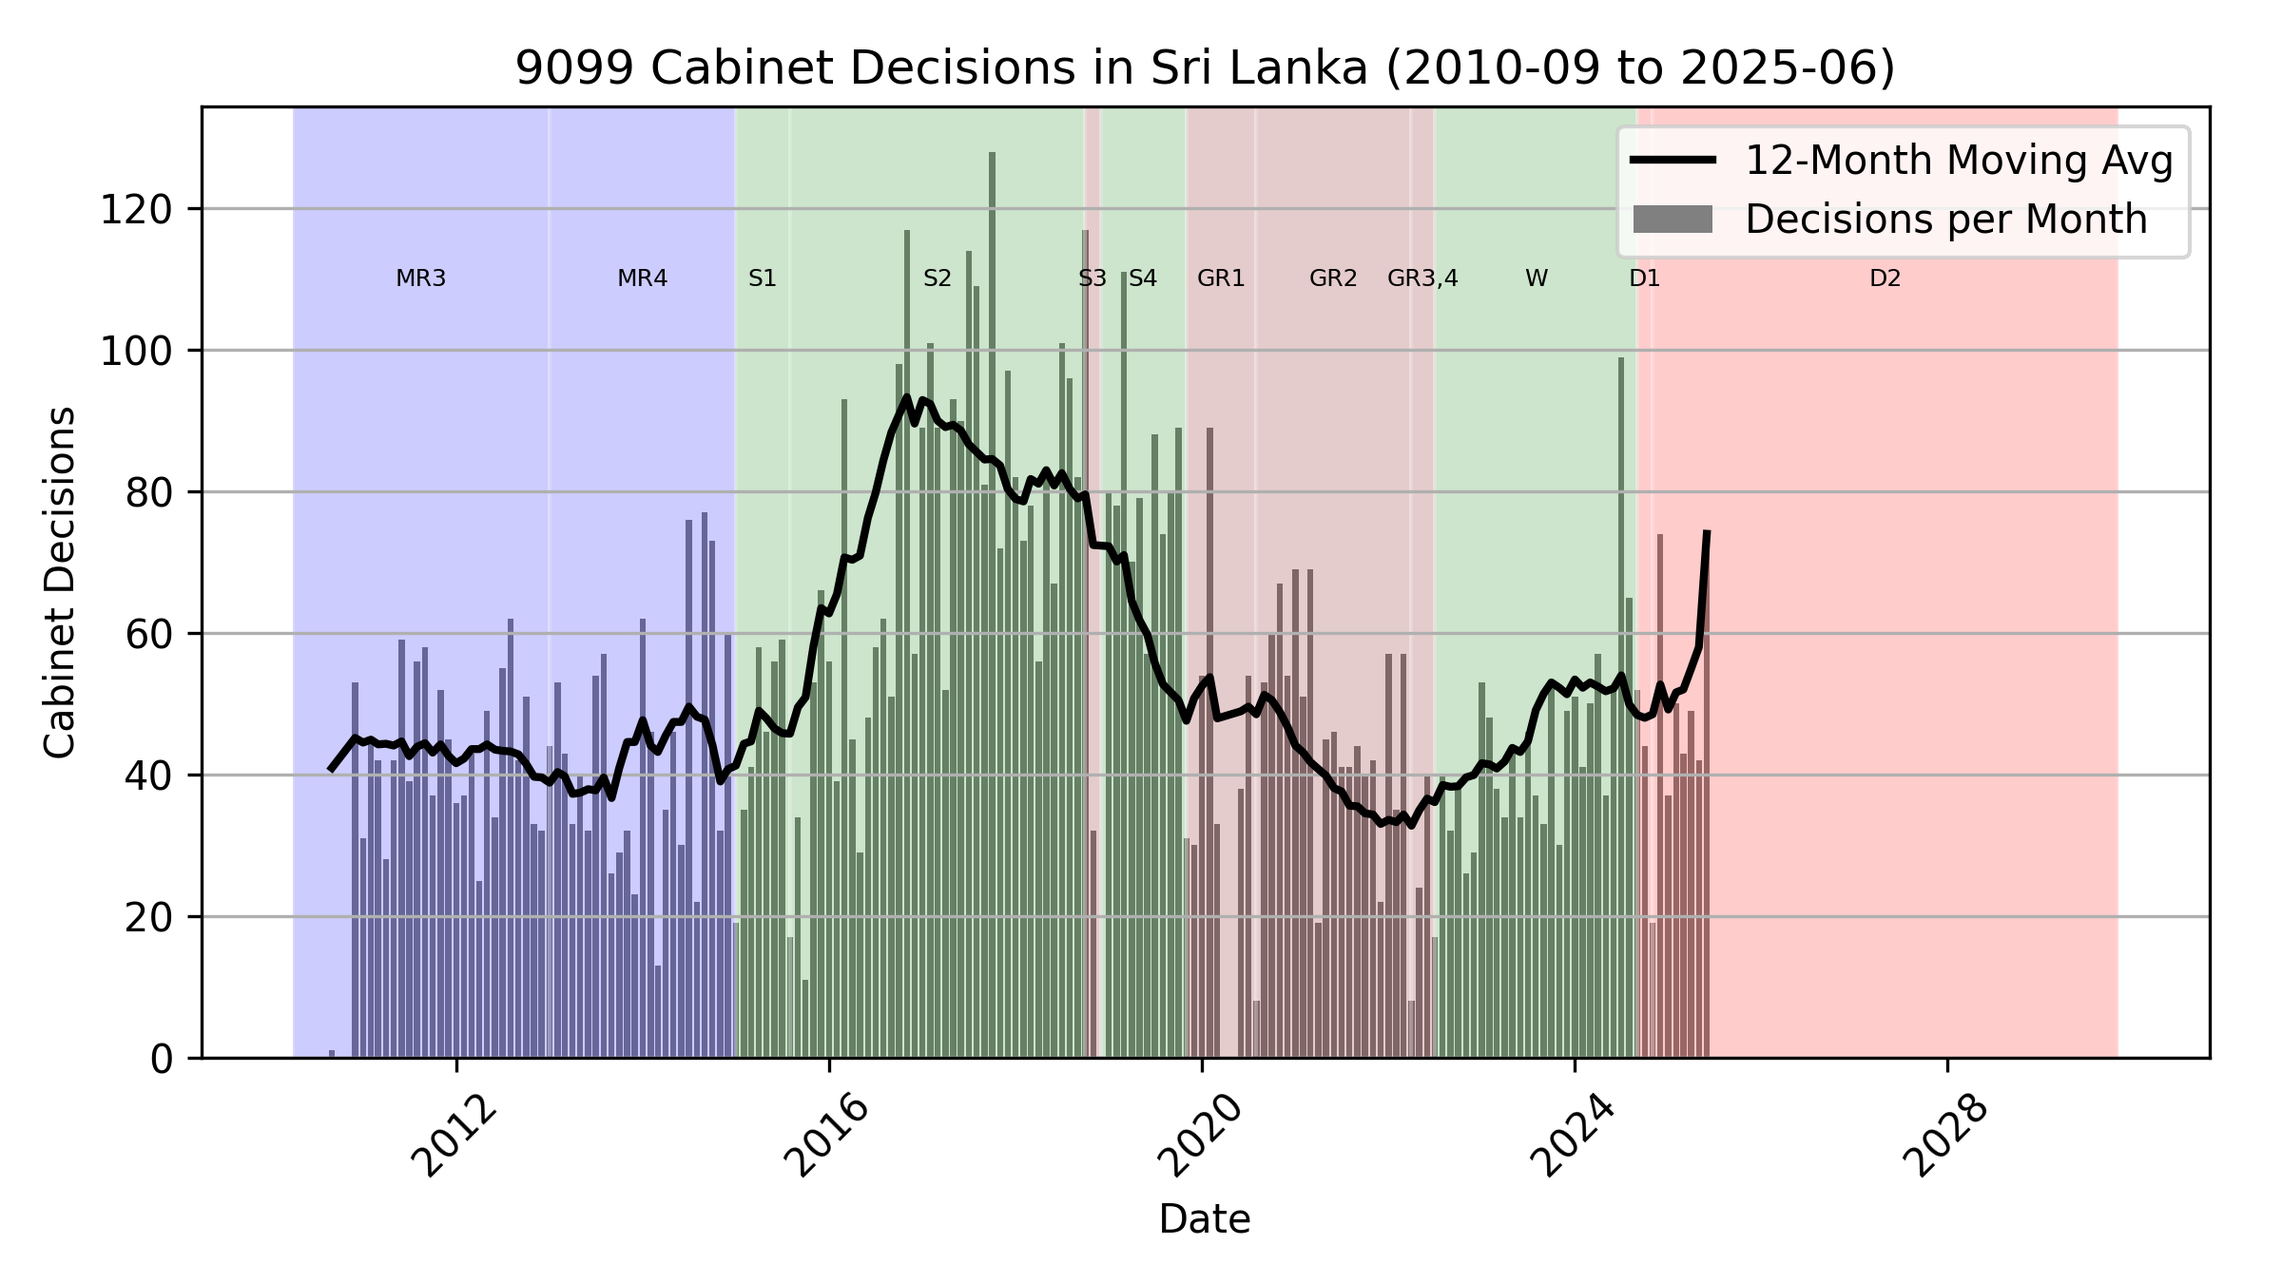
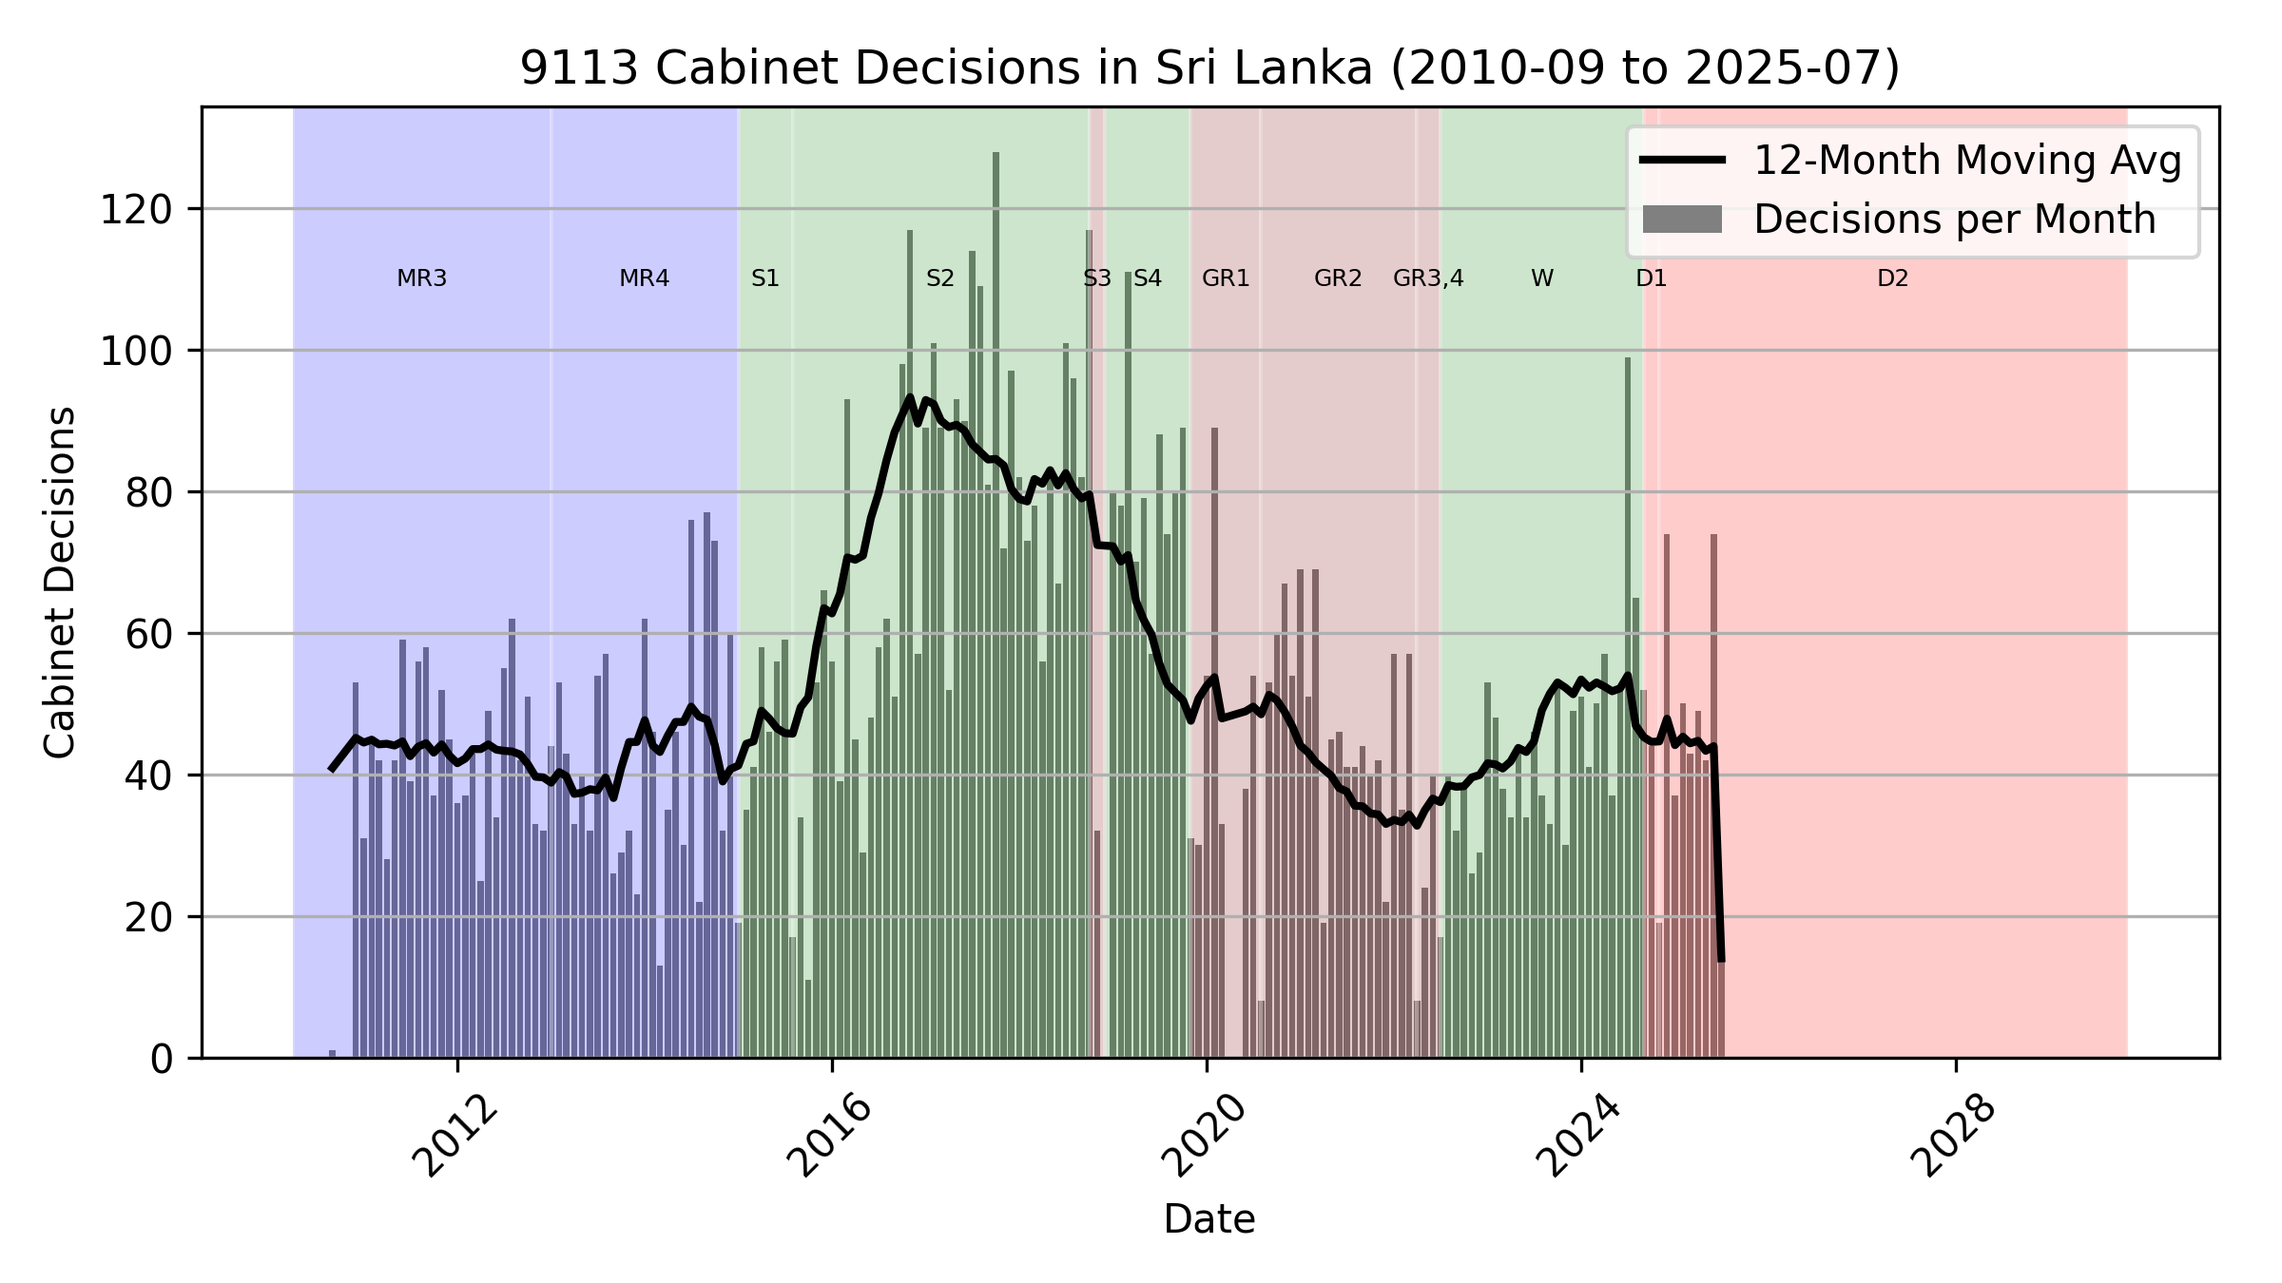
🤖 2025-07-05-0033 - pipeline.yml

diff --git a/README.md b/README.md
@@ -16,9 +16,9 @@ Sri Lanka.
 
 | | |
 |:--|--:|
-| Last Updated   | **2025-07-04 17:54:26**     |
-| nDecisions   | **9,099**     |
-| Latest   | **2025-06-23** |
+| Last Updated   | **2025-07-05 06:03:44**     |
+| nDecisions   | **9,113**     |
+| Latest   | **2025-07-01** |
 | Earliest | **2010-09-27** |
 
 ![Cabinet Decision Chart](images/cabinet_decision_chart.png)
@@ -27,65 +27,75 @@ Sri Lanka.
 
 ```json
 {
-  "date_str": "2025-06-23",
-  "decision_num": 18,
-  "title": "Situation which has arisen in the Middle East Region",
-  "source_url": "https://www.cabinetoffice.gov.lk/cab/index.php?option=com_content&view=article&id=16&Itemid=49&lang=en&dID=13267",
-  "decision_details": "- The Cabinet drew its attention regarding the necessity of having a prior preparedness pertaining to the challenges Sri Lanka would have to face in the future due to the intense war situation which has broken out by now in the Middle East Region. Accordingly, Cabinet decided to appoint a Cabinet Sub‑Committee with the following composition to closely observe the war situation in the Middle East and conduct a review on all the likely impact sectors, the scale of such impact and the expeditious measures to be taken in that regard and submit recommendations where found necessary and to appoint a Committee comprising of the Secretaries to the relevant Ministries to assist the said Cabinet Sub‑Committee:* Hon. Vijitha Herath,  Minister of Foreign Affairs, Foreign Employment and Tourism- (Chairman).* Hon. Samantha Viddyarathna,  Minister of Plantation and Community Infrastructure.* Hon. Wasantha Samarasinghe,  Minister of Trade, Commerce, Food Security and Cooperative Development.* Hon. (Eng.) Kumara Jayakody,  Minister of Energy.",
-  "key": "2025-06-23-018-b7a9"
+  "date_str": "2025-07-01",
+  "decision_num": 14,
+  "title": "Establishment of a Presidential Special Committee of Inquiry to inquire into the Fraud, Corruptions and Irregularities which have occurred in Sri Lankan Airlines Ltd, and Airport and Aviation Services (Sri Lanka) (Private) Ltd, during the past period",
+  "source_url": "https://www.cabinetoffice.gov.lk/cab/index.php?option=com_content&view=article&id=16&Itemid=49&lang=en&dID=13281",
+  "decision_details": "- Although Sri Lankan Airlines Limited has contributed towards the economic prosperity of the country, the Government has to bear excessive burden to maintain it, and the heavy annual loss incurred by the company is difficult for the country's economy to bear. It is the desire of the public to transform this Company into an economically beneficial, efficient and productive state-owned institution and to successfully maintain it using modern technology. For this purpose, a formal study and evaluation on the transactions and incidents that have taken place in the past period which led to the current situation of SriLankan Airlines Limited should be carried out.  Similarly, the need to investigate the activities of Airport and Aviation Services (Sri Lanka) (Private) Ltd, which is responsible for airport operations, has been brought to the attention of the Government by various parties. Accordingly, the proposal made by the Hon. President to appoint a Presidential Special Committee of Inquiry, chaired by the former Auditor General, Mr. H.M. Gamini Wijesinghe, to inquire into the frauds, corruptions and irregularities alleged to have occurred in the above institutions during the period of 2010-2025 and submit a comprehensive Report with recommendations, was approved by the Cabinet.",
+  "key": "2025-07-01-014-2b69"
 }
 ```
 
-[JSON Source](data/cabinet_decisions/2025/2025-06/2025-06-23-018-b7a9.json)
+[JSON Source](data/cabinet_decisions/2025/2025-07/2025-07-01-014-2b69.json)
 
 ## Example TSV Data
 
-[Complete TSV](data/cabinet_decisions.tsv) (9.29 MB)
+[Complete TSV](data/cabinet_decisions.tsv) (9.31 MB)
 
 | date_str | decision_num | title | source_url | decision_details | key |
 |:--|--:|:--|:--|:--|:--|
-| 2025-06-23 | 18 | Situation which has ... | [https://www.cabineto...](https://www.cabinetoffice.gov.lk/cab/index.php?option=com_content&view=article&id=16&Itemid=49&lang=en&dID=13267) | - The Cabinet drew i... | 2025-06-23-018-b7a9 |
-| 2025-06-23 | 17 | Further strengthenin... | [https://www.cabineto...](https://www.cabinetoffice.gov.lk/cab/index.php?option=com_content&view=article&id=16&Itemid=49&lang=en&dID=13266) | - The policy concurr... | 2025-06-23-017-ada1 |
-| 2025-06-23 | 16 | The Standard Operati... | [https://www.cabineto...](https://www.cabinetoffice.gov.lk/cab/index.php?option=com_content&view=article&id=16&Itemid=49&lang=en&dID=13265) | - Child trafficking ... | 2025-06-23-016-e890 |
+| 2025-07-01 | 14 | Establishment of a P... | [https://www.cabineto...](https://www.cabinetoffice.gov.lk/cab/index.php?option=com_content&view=article&id=16&Itemid=49&lang=en&dID=13281) | - Although Sri Lanka... | 2025-07-01-014-2b69 |
+| 2025-07-01 | 13 | Amendment to the Jus... | [https://www.cabineto...](https://www.cabinetoffice.gov.lk/cab/index.php?option=com_content&view=article&id=16&Itemid=49&lang=en&dID=13280) | - Provisions of the ... | 2025-07-01-013-a4fa |
+| 2025-07-01 | 12 | Procurement for the ... | [https://www.cabineto...](https://www.cabinetoffice.gov.lk/cab/index.php?option=com_content&view=article&id=16&Itemid=49&lang=en&dID=13279) | - Bids have been inv... | 2025-07-01-012-1c30 |
 
-(These are the first 3 of **9,099** rows of the full TSV data)
+(These are the first 3 of **9,113** rows of the full TSV data)
 
 ## Last 3 Cabinet Decisions
 
-### 1) Situation which has arisen in the Middle East Region
+### 1) Establishment of a Presidential Special Committee of Inquiry to inquire into the Fraud, Corruptions and Irregularities which have occurred in Sri Lankan Airlines Ltd, and Airport and Aviation Services (Sri Lanka) (Private) Ltd, during the past period
 
-*2025-06-23*, *#18*
+*2025-07-01*, *#14*
 
-[https://www.cabinetoffice.gov.lk/cab/index.php?option=com_content&view=article&id=16&Itemid=49&lang=en&dID=13267](https://www.cabinetoffice.gov.lk/cab/index.php?option=com_content&view=article&id=16&Itemid=49&lang=en&dID=13267)
+[https://www.cabinetoffice.gov.lk/cab/index.php?option=com_content&view=article&id=16&Itemid=49&lang=en&dID=13281](https://www.cabinetoffice.gov.lk/cab/index.php?option=com_content&view=article&id=16&Itemid=49&lang=en&dID=13281)
 
-The Cabinet drew its attention regarding the necessity of having a prior preparedness pertaining to the challenges Sri Lanka would have to face in the future due to the intense war situation which has broken out by now in the Middle East Region. Accordingly, Cabinet decided to appoint a Cabinet Sub‑Committee with the following composition to closely observe the war situation in the Middle East and conduct a review on all the likely impact sectors, the scale of such impact and the expeditious measures to be taken in that regard and submit recommendations where found necessary and to appoint a Committee comprising of the Secretaries to the relevant Ministries to assist the said Cabinet Sub‑Committee:
+Although Sri Lankan Airlines Limited has contributed towards the economic prosperity of the country, the Government has to bear excessive burden to maintain it, and the heavy annual loss incurred by the company is difficult for the country's economy to bear. It is the desire of the public to transform this Company into an economically beneficial, efficient and productive state-owned institution and to successfully maintain it using modern technology. For this purpose, a formal study and evaluation on the transactions and incidents that have taken place in the past period which led to the current situation of SriLankan Airlines Limited should be carried out.  Similarly, the need to investigate the activities of Airport and Aviation Services (Sri Lanka) (Private) Ltd, which is responsible for airport operations, has been brought to the attention of the Government by various parties. Accordingly, the proposal made by the Hon. President to appoint a Presidential Special Committee of Inquiry, chaired by the former Auditor General, Mr. H.M. Gamini Wijesinghe, to inquire into the frauds, corruptions and irregularities alleged to have occurred in the above institutions during the period of 2010-2025 and submit a comprehensive Report with recommendations, was approved by the Cabinet.
 
-* Hon. Vijitha Herath,  Minister of Foreign Affairs, Foreign Employment and Tourism- (Chairman).
+### 2) Amendment to the Justices of the Peace (Appointment, Suspension, Cancellation and Code of Conduct) Regulations
 
-* Hon. Samantha Viddyarathna,  Minister of Plantation and Community Infrastructure.
+*2025-07-01*, *#13*
 
-* Hon. Wasantha Samarasinghe,  Minister of Trade, Commerce, Food Security and Cooperative Development.
+[https://www.cabinetoffice.gov.lk/cab/index.php?option=com_content&view=article&id=16&Itemid=49&lang=en&dID=13280](https://www.cabinetoffice.gov.lk/cab/index.php?option=com_content&view=article&id=16&Itemid=49&lang=en&dID=13280)
 
-* Hon. (Eng.) Kumara Jayakody,  Minister of Energy.
+Provisions of the Judicature Act, No.2 of 1978 have empowered the Minister to make regulations for the appointment, suspension, cancellation and termination of the office of a Justice of the Peace. Accordingly, the Justices of the Peace (Appointment, Suspension, Cancellation, and Code of Conduct) Regulations No.3 of 2023 has been published through the Gazette Extraordinary Notification No.2360/22 dated 2023 11 27. Amended Regulations by amending the said Regulations have been published through the Gazette Extraordinary Notification No.2439/34 dated 2025 06 04. The proposal made by the Minister of Justice and National Integration to submit the said Regulations to Parliament for approval, was approved by the Cabinet.
 
-### 2) Further strengthening the Administrative Structure of the Tourism Industry in Sri Lanka
+### 3) Procurement for the Supply of Intra Ocular Lens
 
-*2025-06-23*, *#17*
+*2025-07-01*, *#12*
 
-[https://www.cabinetoffice.gov.lk/cab/index.php?option=com_content&view=article&id=16&Itemid=49&lang=en&dID=13266](https://www.cabinetoffice.gov.lk/cab/index.php?option=com_content&view=article&id=16&Itemid=49&lang=en&dID=13266)
+[https://www.cabinetoffice.gov.lk/cab/index.php?option=com_content&view=article&id=16&Itemid=49&lang=en&dID=13279](https://www.cabinetoffice.gov.lk/cab/index.php?option=com_content&view=article&id=16&Itemid=49&lang=en&dID=13279)
 
-The policy concurrence of the Cabinet of Ministers has been granted at the Cabinet meeting held on 2025-01-20 to introduce a new Act to replace the Tourism Act, No.38 of 2005. Accordingly, the proposal made by the Minister of Foreign Affairs, Foreign Employment and Tourism to instruct the Legal Draftsman to prepare a Bill based on the Concept Paper prepared by an Expert Committee appointed under the Chairmanship of the Secretary, Ministry of Foreign Affairs, Foreign Employment and Tourism, was approved by the Cabinet.
+Bids have been invited under the International Competitive Bidding Procedure for the supply of 05 categories of Intra Ocular Lens which are used to implant in the eye for cataract or myopia treatments. 05 bidders have submitted bids for the same. Accordingly, the proposal made by the Minister of Health and Mass media to procure the relevant 05  Intra Ocular Lens from the following suppliers, based on the recommendations of the Standing High-Level Procurement Committee, was approved by the Cabinet.
 
-### 3) The Standard Operating Procedure for Law Enforcement Authorities on detection, investigation and prosecution of trafficking-related organized crimes against children
+•	supplying  Intra Ocular Lens from M/s Elshaddai Enterprises (Pvt) Ltd., the lowest evaluated substantially responsive bidder pertaining to procurements of SR No.13005029 and 13005032.
 
-*2025-06-23*, *#16*
+•	supplying  Intra Ocular Lens from M/s Jayasuriya Associates, the lowest evaluated substantially responsive bidder pertaining to procurements of SR No.13005026, 13005031 and 13005030.
 
-[https://www.cabinetoffice.gov.lk/cab/index.php?option=com_content&view=article&id=16&Itemid=49&lang=en&dID=13265](https://www.cabinetoffice.gov.lk/cab/index.php?option=com_content&view=article&id=16&Itemid=49&lang=en&dID=13265)
+## All Cabinet Decisions (9,113)
 
-Child trafficking for exploitation is considered a grave human rights violation as well as a serious organized international crime. Accordingly, Sri Lanka is committed to strengthening its national response through legal institutions and a procedural mechanism adhering to its obligations under the United Nations Convention on the Rights of the Child and other international policy frameworks. The Ministry of Public Security and Parliamentary Affairs, in collaboration with the Women and Children's Bureau, various units of the Criminal Investigation Department of the Sri Lanka Police, the National Child Protection Authority, the Attorney General’s Department and other relevant stakeholders, has developed a comprehensive Standard Operating Procedure titled “Standard Operating Procedures for Law Enforcement Authorities on Detection, Investigation and Prosecution of Trafficking-Related Organized Crimes Against Children”. The said Standard Operating Procedure has received the clearance of the Attorney General. Accordingly, the proposal made by the Minister of Public Security and Parliamentary Affairs to publish the Standard Operating Procedure for law enforcement authorities on the detection, investigation and prosecution of trafficking-related organized crimes against children, in the Government Gazette, enabling the relevant stakeholders to properly implement the said Standard Operating Procedure, was approved by the Cabinet.
-
-## All Cabinet Decisions (9,099)
-
+- [2025-07-01] [Establishment of a Presidential Special Committee of Inquiry to inquire into the Fraud, Corruptions and Irregularities which have occurred in Sri Lankan Airlines Ltd, and Airport and Aviation Services (Sri Lanka) (Private) Ltd, during the past period](data/cabinet_decisions/2025/2025-07/2025-07-01-014-2b69.json)
+- [2025-07-01] [Amendment to the Justices of the Peace (Appointment, Suspension, Cancellation and Code of Conduct) Regulations](data/cabinet_decisions/2025/2025-07/2025-07-01-013-a4fa.json)
+- [2025-07-01] [Procurement for the Supply of Intra Ocular Lens](data/cabinet_decisions/2025/2025-07/2025-07-01-012-1c30.json)
+- [2025-07-01] [The Methodology of Purchasing medicines and medicinal equipment 	under Government to Government basis, where found necessary](data/cabinet_decisions/2025/2025-07/2025-07-01-011-8fab.json)
+- [2025-07-01] [Selection of Consultancy Firms for the supervision activities of the Housing Programme implemented for low-income families under Government of China Assistance Programme](data/cabinet_decisions/2025/2025-07/2025-07-01-010-5e31.json)
+- [2025-07-01] [Improving sanitation facilities in the urban areas throughout the 	island](data/cabinet_decisions/2025/2025-07/2025-07-01-009-8390.json)
+- [2025-07-01] [Sri Lanka Expo - 2026](data/cabinet_decisions/2025/2025-07/2025-07-01-008-d59c.json)
+- [2025-07-01] [Installation of a Public Debt Management Software System](data/cabinet_decisions/2025/2025-07/2025-07-01-007-d7cd.json)
+- [2025-07-01] [Implementation of Research Projects on Palm Leaf Manuscript collections with Sri Lankan origin in Netherlands](data/cabinet_decisions/2025/2025-07/2025-07-01-006-f52f.json)
+- [2025-07-01] [Five Year National Action Plan on National Policy on Child Protection](data/cabinet_decisions/2025/2025-07/2025-07-01-005-9f21.json)
+- [2025-07-01] [Community Productive Model Villages programme](data/cabinet_decisions/2025/2025-07/2025-07-01-004-e603.json)
+- [2025-07-01] [Seasonal Worker Programme for Agriculture and Fisheries in Republic of Korea](data/cabinet_decisions/2025/2025-07/2025-07-01-003-c911.json)
+- [2025-07-01] [Preparation of the Budget for the year 2026](data/cabinet_decisions/2025/2025-07/2025-07-01-002-2828.json)
+- [2025-07-01] [Scholarship programme to provide opportunities for top-performers  of the G.C.E.(Advanced Level) Examination to pursue their Bachelor's degree in foreign universities](data/cabinet_decisions/2025/2025-07/2025-07-01-001-a1a5.json)
 - [2025-06-23] [Situation which has arisen in the Middle East Region](data/cabinet_decisions/2025/2025-06/2025-06-23-018-b7a9.json)
 - [2025-06-23] [Further strengthening the Administrative Structure of the Tourism Industry in Sri Lanka](data/cabinet_decisions/2025/2025-06/2025-06-23-017-ada1.json)
 - [2025-06-23] [The Standard Operating Procedure for Law Enforcement Authorities on detection, investigation and prosecution of trafficking-related organized crimes against children](data/cabinet_decisions/2025/2025-06/2025-06-23-016-e890.json)
